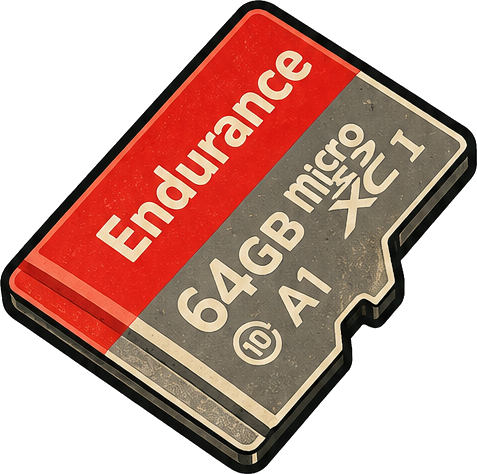
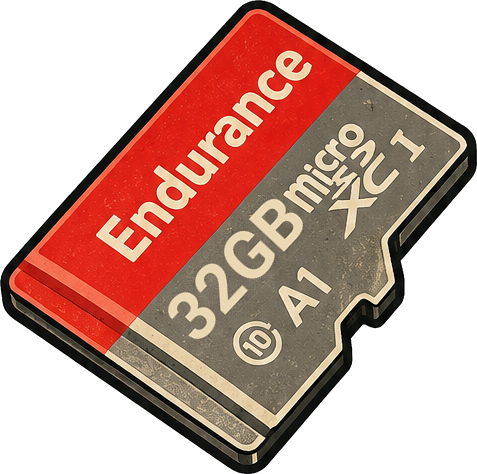
art: the insert-into-the-medic card says 32 GB as well
The step that puts a card into the medic draws sd_card.png DIRECTLY
(InsertSdAnim, not _card_texture), so it kept showing 64GB after both other
cards changed — one walkthrough, two numbers, and I had wrongly written that
sprite off as an unused fallback.

Its angle was found by rotating until the ink's row profile is sharpest: 47
degrees, not the 33 the reader sprite sits at. Reading it off by eye put it 14
degrees out, which is why the first attempts ate the top of "A1" and left a
hook of the old 4 — at the wrong angle the two text lines cross the patch box.

Changed region(s): [[0.3522, 0.4135, 0.6457, 0.7384]]

diff --git a/scripts/rebrand_sd_reader.py b/scripts/rebrand_sd_reader.py
@@ -37,16 +37,17 @@ CARDS = (
     {"path": os.path.join(_ANIM, "sd_reader.png"), "text": "32",
      "angle": -33.0, "centre": (250, 900), "digits": (170, 852, 254, 922),
      "size": 86, "dx": -3, "dy": -8},
+    # The SAME card, drawn smaller and at a different angle, on the step that
+    # puts a card INTO the medic (birth_anims.InsertSdAnim draws SD_PNG
+    # directly, not _card_texture). Its angle was found by rotating until the
+    # ink's row profile is sharpest — reading it off by eye put it 14 degrees
+    # out, and at 33 the two text lines sat across each other so a box around
+    # the capacity ate the top of "A1".
+    {"path": os.path.join(_ANIM, "sd_card.png"), "text": "32GB",
+     "angle": -47.0, "centre": (238, 238), "digits": (136, 226, 294, 290),
+     "size": 68, "dx": 0, "dy": -9},
 )
 
-#: NOT sd_card.png, and deliberately. That sprite draws the same card at a
-#: different angle in a tighter crop: its glyphs TOUCH — no clean column
-#: between the "4" and the "G" — and no single rotation levels its two text
-#: lines at once. Every cut tried left either a hook of the old 4 or a chewed
-#: "A1", and a chewed glyph is worse than an old number on a file nobody sees:
-#: it is only the FALLBACK behind sd_card_endurance.png
-#: (birth_anims._card_texture), used if that file ever goes missing. If it is
-#: ever redrawn, it should be redrawn as art, not patched.
 #: The cream the lettering is printed in, measured off the glyphs themselves.
 INK = (234, 216, 180)
 
